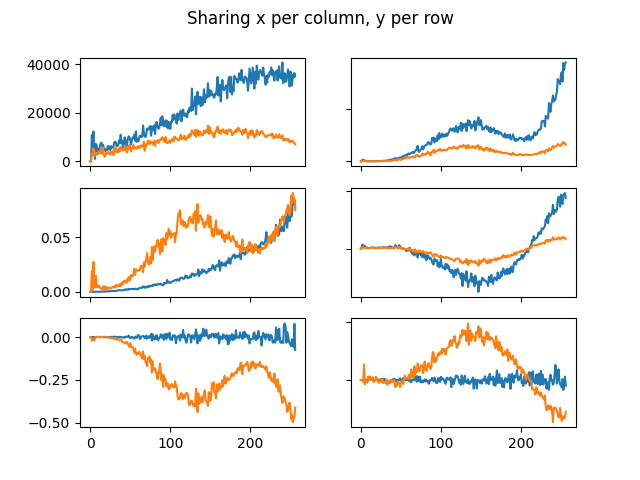
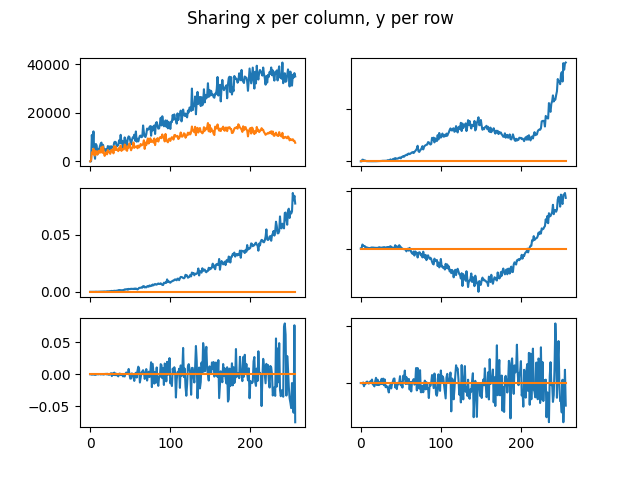
fixed lmax

diff --git a/beamconv/pipeline.py b/beamconv/pipeline.py
@@ -1,5 +1,6 @@
 import matplotlib
 import matplotlib.pyplot as plt
+import matplotlib.pylab as pl
 import numpy as np
 import healpy as hp
 import scipy.sparse
@@ -71,12 +72,15 @@ Umax = max(map_FG[2]).value
 
 hp.visufunc.mollview(map_FG[0],title='I input', min=Imin, max=Imax)
 plt.savefig('I-1.png')
+plt.close()
 
 hp.visufunc.mollview(map_FG[1],title='Q input', min=Qmin, max=Qmax)
 plt.savefig('Q-1.png')
+plt.close()
 
 hp.visufunc.mollview(map_FG[2],title='U input', min=Umin, max=Umax)
 plt.savefig('U-1.png')
+plt.close()
 
 ########################################################
 # SCANNING STRATEGY
@@ -86,7 +90,7 @@ sampling_freq = 19.0
 
 # setting up the scanning strategy parameters
 ctime0 = 1510000000            # initial time, might be passed as input parameter
-mlen = 1 * 24 * 60 * 60       # mission length in seconds (ten days!)
+mlen = 10 * 24 * 60 * 60       # mission length in seconds (ten days!)
 
 # Definition of the scanning strategy making use of LiteBIRD's specifics (with HWP non-idealities)
 ss = ScanStrategy(
@@ -274,15 +278,15 @@ print(polangs)
 beam_opts = dict(lmax=lmax,
                  btype='Gaussian',
                  fwhm=fwhm,          # gaussian co-pol beam, so only specify FWHM (arcmin)
-                 hwp_mueller=mueller_140GHz,
+                 #hwp_mueller=mueller_140GHz,
                  #hwp_mueller=np.diag([1,1,-1,-1]),
-                 #hwp_mueller=np.diag([1,1,1,1]),
+                 hwp_mueller=np.diag([1,1,1,1]),
                  quats=quats
                 )
 
 # defining HWP frequency
-ss.set_hwp_mod(mode='continuous', freq=88/60)
-#ss.set_hwp_mod(mode='continuous', freq=0)
+#ss.set_hwp_mod(mode='continuous', freq=88/60)
+ss.set_hwp_mod(mode='continuous', freq=0)
 
 # creating the focal plane
 ss.input_focal_plane(azs, els, polangs, deads, combine=True, scatter=False, **beam_opts)
@@ -294,12 +298,15 @@ maps, cond, proj = ss.solve_for_map(return_proj = True)
 
 hp.mollview(maps[0], title="I", min=Imin, max=Imax)
 plt.savefig('I-2.png')
+plt.close()
 
 hp.mollview(maps[1], title="Q", min=Qmin, max=Qmax)
 plt.savefig('Q-2.png')
+plt.close()
 
 hp.mollview(maps[2], title="U", min=Umin, max=Umax)
 plt.savefig('U-2.png')
+plt.close()
 
 #######################################
 
@@ -312,6 +319,7 @@ for p in range(npix):
         mask_raw[p] = 0
         
 hp.mollview(mask_raw, title="mask_raw")
+plt.close()
 
 # The following function calls create apodized versions of the raw mask
 # with an apodization scale of 2.5 degrees using three different methods
@@ -335,9 +343,24 @@ mask_C2 = nmt.mask_apodization(mask_raw, aposcale, apotype="C2")
 #         originally masked are forced back to zero.
 mask_Sm = nmt.mask_apodization(mask_raw, aposcale, apotype="Smooth")
 
-hp.mollview(mask_Sm, title='Apodized mask')
+hp.mollview(mask_C2, title='Apodized mask')
 plt.savefig('mask.png')
-plt.show()
+plt.close()
+
+# Read healpix maps and initialize a spin-0 and spin-2 field
+f_0 = nmt.NmtField(mask_Sm, [maps[0]])
+f_2 = nmt.NmtField(mask_Sm, [maps[1],maps[2]])
+
+# Initialize binning scheme with 4 ells per bandpower
+b = nmt.NmtBin.from_nside_linear(nside, 4)
+
+# Compute MASTER estimator
+# spin-0 x spin-0
+cl_input_00 = nmt.compute_full_master(f_0, f_0, b)
+# spin-0 x spin-2
+cl_input_02 = nmt.compute_full_master(f_0, f_2, b)
+# spin-2 x spin-2
+cl_input_22 = nmt.compute_full_master(f_2, f_2, b)
 
 # Read healpix maps and initialize a spin-0 and spin-2 field
 f_0 = nmt.NmtField(mask_Sm, [maps[0]])
@@ -354,15 +377,31 @@ cl_02 = nmt.compute_full_master(f_0, f_2, b)
 # spin-2 x spin-2
 cl_22 = nmt.compute_full_master(f_2, f_2, b)
 
-Cl_input = hp.anafast(map_FG, lmax=lmax)
+# TT: cl_00[0]
+# EE: cl_22[0]
+# BB: cl_22[3]
+# TE: cl_02[0]
+# EB: cl_22[1]
+# TB: cl_02[1]
+
+n = 4
+colors = pl.cm.viridis(np.linspace(0,1,n))
 
 # Plot results
-ell_arr = b.get_effective_ells()
-#plt.plot(ell_arr, Cl_input[0][ell_arr], 'k-')
-plt.plot(ell_arr, cl_00[0], 'r--', label='TT')
-plt.plot(ell_arr, np.fabs(cl_02[0]), 'g--', label='TE')
-plt.plot(ell_arr, cl_22[0], 'b--', label='EE')
-plt.plot(ell_arr, cl_22[3], 'y--', label='BB')
+ell = b.get_effective_ells()
+ell_arr = ell[(ell <= lmax)] # it was going up to 3*nside!
+
+print('effective ells:')
+print(ell_arr)
+
+plt.plot(ell_arr, cl_input_00[0][(ell <= lmax)], color=colors[0])
+plt.plot(ell_arr, cl_00[0][(ell <= lmax)], color='white', linestyle='dashed', label='TT')
+plt.plot(ell_arr, np.fabs(cl_input_02[0][(ell <= lmax)]), color=colors[1])
+plt.plot(ell_arr, np.fabs(cl_02[0][(ell <= lmax)]), color='white', linestyle='dashed', label='TE')
+plt.plot(ell_arr, cl_input_22[0][(ell <= lmax)], color=colors[2])
+plt.plot(ell_arr, cl_22[0][(ell <= lmax)], color='white', linestyle='dashed', label='EE')
+plt.plot(ell_arr, cl_input_22[3][(ell <= lmax)], color=colors[3])
+plt.plot(ell_arr, cl_22[3][(ell <= lmax)], color='white', linestyle='dashed', label='BB')
 plt.loglog()
 plt.xlabel('$\\ell$', fontsize=16)
 plt.ylabel('$C_\\ell$', fontsize=16)
@@ -370,10 +409,12 @@ plt.legend(loc='upper right', ncol=2, labelspacing=0.1)
 plt.savefig('NaMaster.png')
 plt.show()
 
-
 Cl_input = hp.anafast(map_FG, lmax=lmax)
 Cl_proce = hp.anafast(maps, lmax=lmax)
 ell = np.arange(lmax+1)
+
+print('ells:')
+print(ell)
 
 fig, ((ax1, ax2), (ax3, ax4), (ax5, ax6)) = plt.subplots(3, 2)
 fig.suptitle('Sharing x per column, y per row')
@@ -394,6 +435,7 @@ for ax in fig.get_axes():
     ax.label_outer()
     
 plt.savefig('Cls.png')
+plt.show()
 
 quit()
 
